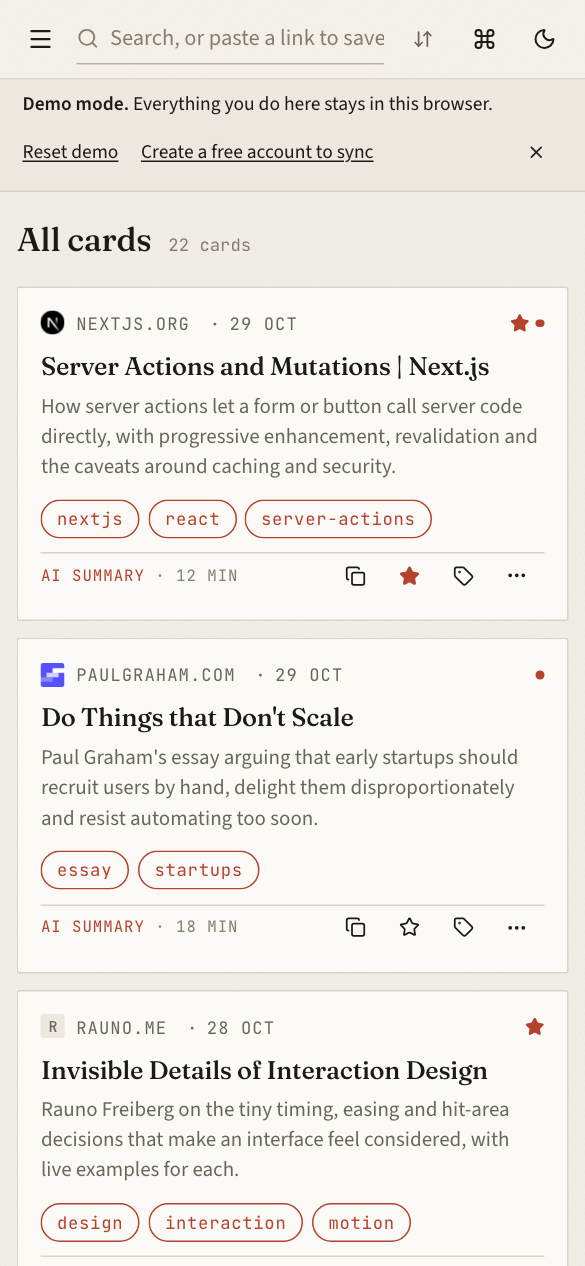
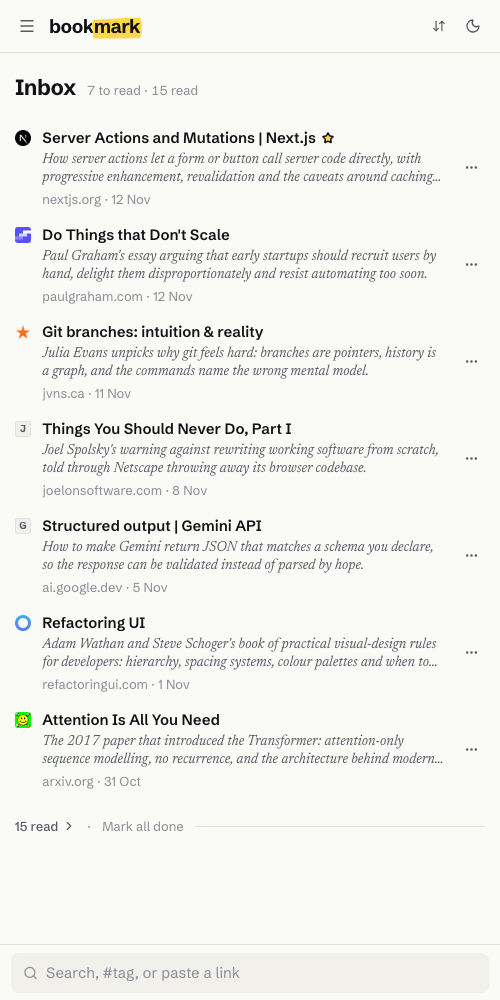
Rewrite the README around what the app does and refresh the screenshots

diff --git a/README.md b/README.md
@@ -1,130 +1,82 @@
 # Bookmark-AI
 
-Save a page. Get it back with one word.
+Save a link now. Find it later with the one word you remember.
 
-Paste a link and Bookmark-AI reads the page, writes a two-line summary, stamps a few tags and files the card. Months later you type the one word you remember and it is back on the desk.
-
-**Live demo:** https://bookmark-ai-beta.vercel.app/demo (no account needed; demo cards stay in your browser, only the URL you paste goes to the server to be read)
+**Live:** https://bookmark-ai-beta.vercel.app · **Try it without an account:** https://bookmark-ai-beta.vercel.app/demo
 
 [![ci](https://github.com/meCeltic/Bookmark-AI/actions/workflows/ci.yml/badge.svg)](https://github.com/meCeltic/Bookmark-AI/actions/workflows/ci.yml)
 
-![The dashboard, light](public/screenshots/dashboard-light.png)
-
-## Why I rebuilt it
-
-The first version of this repo was a weekend take-home from 2025. It had a Supabase schema the UI never called, a "summary" that was a raw page dump, and a bookmarks list that lived in `localStorage` behind a login that protected nothing. I kept the name and the idea and rewrote everything else, this time the way I would build a service at work: a schema with row-level security, a repository boundary so the UI does not care where data lives, an enrichment pipeline that treats a language model as an untrusted upstream, and a demo mode so the link on my résumé works for anyone in three seconds.
+![Landing page](public/screenshots/landing.png)
 
 ## What it does
 
-- **Reads the page for you.** Title, favicon, image, reading time, and a summary with 3–5 tags and a category written by Gemini. No key or quota? The page's own description is used and the card says `meta` instead of `ai`.
-- **Keeps a tidy drawer.** Collections, plus five built-in views: all, unsorted, favourites, reading list (unread), archive. Tags are filters with counts.
-- **Finds things again.** One input that filters as you type and flips into Save mode when it sees a link. `⌘K` palette. Search is substring-first with word-level typo tolerance, so `recat` finds React without matching every summary that contains those letters.
-- **Works from the keyboard.** `j`/`k` walk cards, `f` favourite, `e` archive, `⌫` delete, `x` select, `?` shows the sheet. Delete and bulk actions are undoable from the toast.
-- **Moves your data in and out.** Import the `bookmarks.html` any browser exports; folders become collections and duplicates are skipped. Export back to browser HTML or JSON.
-- **Tells you what is dead.** Link health check with bounded concurrency, badges on the cards, a filter for the dead ones.
-- **Refuses duplicates.** URLs are canonicalised (no `utm_*`, `www.`, fragment or trailing slash) and a unique index in Postgres is the last word.
-- **Demo mode.** `/demo` runs the whole app against a localStorage repository with a seeded drawer. Sign up later and bring the demo cards with you.
+Paste a link. The server reads the page, writes a two-line summary with a few tags, and files it in your Inbox. From then on, any word you remember brings it back: title, summary, tags and URL are all searched, with typo tolerance.
 
-| Dark | Palette | Mobile |
+- **An inbox, not a pile.** Unread links sit on top. Press `d` when you're done with one and it drops out of the way. Read links fold into a single line so the Inbox can actually reach zero.
+- **Search that forgives.** `recat` finds React. `#design` filters by tag, with autocomplete. Matches are highlighted in place.
+- **Keyboard first.** `j`/`k` to move, `o` to open, `space` for a preview pane, `f` to star, `?` for the full list. Every destructive action has an undo.
+- **Your data stays yours.** Import the `bookmarks.html` any browser exports (folders become collections, duplicates are skipped). Export back to HTML or JSON at any time.
+- **Save from anywhere.** A bookmarklet posts the current tab to `/save`.
+- **Dead links are flagged**, so a stale drawer tells you which pages have gone.
+
+| Inbox | Preview | Phone |
 | --- | --- | --- |
-| ![dark](public/screenshots/dashboard-dark.png) | ![palette](public/screenshots/command-palette.png) | ![mobile](public/screenshots/mobile.png) |
+| ![Inbox](public/screenshots/inbox.png) | ![Preview pane](public/screenshots/preview.png) | ![Mobile](public/screenshots/mobile.png) |
 
-## How it works
+## How it's built
 
-### How a card gets written
+Next.js 16 (App Router, server actions) · React 19 · TypeScript · Tailwind 4 · Supabase Auth and Postgres · Gemini for summaries.
 
-When you paste a link, the server reads the page once and writes the card from what it finds. The fetch goes through a guard that only allows http(s), resolves the hostname and refuses private, loopback and link-local addresses, follows at most three redirects and re-checks each one, stops reading after 1 MiB and gives the whole exchange five seconds. From the HTML it takes the title (Open Graph first, then Twitter, then `<title>`), the favicon and preview image, the article or main text with entities decoded, and an estimated reading time.
+A few decisions I'd defend in a review:
 
-About six kilobytes of that text goes to Gemini with a fixed JSON schema in the request. The reply is parsed again by a Zod schema that caps lengths, keeps three to five tags in a safe character set and restricts the category to a fixed list. If there is no API key, the quota is spent or the reply does not fit the schema, the card falls back to the page's own description and records that it did, so the UI never presents a fallback as an AI summary.
+- **The database enforces the rules.** Row-level security on every table. A unique index on the canonical URL per user means a duplicate is refused by Postgres, not by a check that someone could forget. A generated, weighted `tsvector` plus a trigram index back the search function.
+- **One repository interface, three implementations.** The UI talks to a `BookmarkRepository`. Demo mode gets a localStorage one, signed-in users get Postgres behind server actions. A single contract test suite runs against both, so the demo is the real app, not a mock.
+- **User-supplied URLs are treated as hostile.** Fetches go through a guard that resolves DNS and refuses private, loopback, link-local and metadata ranges (IPv4 and IPv6), re-validates every redirect, caps the body at 1 MiB and the whole exchange at five seconds. The link checker uses the same guard.
+- **The model is an upstream, not an oracle.** Gemini is called with a response schema, the reply is validated again with Zod, and anything off-schema or rate-limited falls back to the page's own description, labelled as such. Models are tried in a chain with retries.
+- **Validated at every boundary.** Server action input, route bodies, model output, import files and localStorage all pass through the same Zod schemas. Actions return a typed `Result` instead of throwing across the client line.
+- **Motion without a library.** Saves, deletes, the preview pane and layout changes use the View Transitions API with a reduced-motion tier. Nothing moves that you're reading.
 
-Before the card is filed, the URL is canonicalised: `utm_*` parameters, `www.`, the fragment and a trailing slash are removed. A unique index on the canonical URL per user means a duplicate is refused by Postgres rather than by a check in JavaScript, and a generated full-text search vector over title, summary, tags and URL is kept up to date by the database.
-
-### How the app is put together
-
-
-```
-Next.js 16 (App Router)            Supabase
-┌──────────────────────────┐       ┌────────────────────────────┐
-│ /demo  ──► LocalRepository (browser, localStorage)             │
-│ /dashboard ─► RemoteRepository ─► server actions ─► SupabaseRepository ─► Postgres (RLS)
-│                                                                │
-│ POST /api/enrich ─► ssrf-guard ─► extract ─► Gemini ─► Zod ─► Enrichment
-│ POST /api/health ─► ssrf-guard (HEAD, 6 at a time)             │
-└──────────────────────────┘       └────────────────────────────┘
-```
-
-**One repository interface, three implementations.** The dashboard only knows `BookmarkRepository` (`lib/repo/types.ts`). Demo mode gets `LocalRepository`; signed-in users get `RemoteRepository`, which forwards to server actions that run `SupabaseRepository` with the caller's session. One contract test suite (`lib/repo/contract.test.ts`) pins the behaviour: dedupe by canonical URL, patch semantics, collection deletion unsorting its cards, tag merge.
-
-**Postgres does the hard parts** (`supabase/migrations/0001_init.sql`). Row-level security on every table with `using` and `with check`. A unique index on `(user_id, url_normalized)` so duplicates are a database guarantee, not a JavaScript hope. A generated `tsvector` column with weighted fields (title A, summary B, tags C, url D), a GIN index on it, and a trigram index on title; `search_bookmarks(q)` ranks with `ts_rank_cd` and falls back to `similarity` for typos. `rename_tag` merges a tag across every row in one statement. Tags are a `text[]` on the row rather than a join table: every read needs them, writes are per-row, and a GIN index answers "has tag", so a join table would buy nothing here.
-
-**Fetching user-supplied URLs is a security feature** (`lib/url/ssrf-guard.ts`). http(s) only, hostnames like `localhost`, `*.internal` and `*.local` refused, DNS resolved and every address checked against loopback, RFC 1918, link-local (cloud metadata), CGNAT, multicast and the IPv6 equivalents including mapped IPv4. Redirects are followed manually, at most three, re-validating each hop. Bodies are streamed and cut at 1 MiB; the whole exchange shares a 5 s budget. The same guard fronts the health check.
-
-**The model is an upstream, not an oracle** (`lib/enrich/`). Gemini is called with `responseMimeType: application/json` and a `responseSchema`; the reply is then parsed by a Zod schema that caps lengths, restricts tags to `[a-z0-9 .+#-]` and the category to a fixed enum. Anything off-schema, any quota error and any missing key all land on the same metadata fallback, and the card's status (`done` / `fallback` / `failed`) tells the UI what happened. Route handlers return typed errors with proper status codes and `Retry-After`; a token-bucket limiter is keyed by user id, or by IP for demo visitors.
-
-**Validated at every boundary.** Server action arguments, route bodies, model output, import files and `localStorage` reads all go through the schemas in `lib/domain/bookmark.ts`. Actions return a `Result<T>` instead of throwing across the client line.
-
-### Decisions and trade-offs
-
-| Decision | Why | What it costs |
-| --- | --- | --- |
-| Full-text search in Postgres, not a vector database | A personal drawer is a few hundred rows; `tsvector` + trigram answers "I remember one word" instantly with no second service. | No semantic search ("that article about cache invalidation" when the word cache is not on the card). |
-| Client-side search over the loaded list in the UI | The list is fully loaded anyway; filtering as you type must be instant. The Postgres RPC exists for a future paginated drawer. | Search logic lives in two places until the list is paginated. |
-| Tags as `text[]`, not a join table | Simpler reads and writes, GIN index covers filtering, `rename_tag` is one UPDATE. | Tag metadata (colour, description) has nowhere to live. |
-| In-memory rate limiter | Zero infrastructure for a portfolio deployment. | Per-instance; the upgrade path is Upstash with the same interface. |
-| Demo on localStorage, not an anonymous Supabase user | No sign-up wall, works with every env var missing, no abandoned rows to clean. | Demo data does not sync; "bring them in" on sign-up covers the happy path. |
-| Gemini structured output rather than prompt-and-pray | A schema in the request and a schema on the reply give two layers of guarantee. | Tied to one provider; swapping means re-implementing `summarize` behind the same type. |
-
-## Running it
+## Running it locally
 
 ```bash
 git clone https://github.com/meCeltic/Bookmark-AI
 cd Bookmark-AI
 npm install
-cp .env.example .env.local   # all optional, see below
 npm run dev
 ```
 
-Open http://localhost:3000. With no env vars at all you get demo mode only, which is a complete app.
+That gives you demo mode with no configuration. For accounts and AI summaries, copy `.env.example` to `.env.local`:
 
 | Variable | Needed for |
 | --- | --- |
-| `NEXT_PUBLIC_SUPABASE_URL`, `NEXT_PUBLIC_SUPABASE_ANON_KEY` | Accounts and cloud sync. Run `supabase/migrations/0001_init.sql` in the SQL editor first. |
-| `GEMINI_API_KEY` (`GEMINI_MODEL` optional) | AI summaries and tags. The free tier at aistudio.google.com is enough. Models are tried in a chain (lite first, then larger) and a 404, 429, 503 or timeout moves to the next; without a key, cards use the page description. |
-| `NEXT_PUBLIC_SITE_URL` | Absolute links in auth emails. |
+| `NEXT_PUBLIC_SUPABASE_URL`, `NEXT_PUBLIC_SUPABASE_ANON_KEY` | Sign-in and cloud sync. Run `supabase/migrations/0001_init.sql` in the SQL editor first. |
+| `GEMINI_API_KEY` | Summaries and tags. The free tier at aistudio.google.com is enough. |
+| `NEXT_PUBLIC_SITE_URL` | Absolute links in auth emails and the bookmarklet. |
+
+## Quality
 
 ```bash
-npm test          # vitest, ~270 tests, about a second
-npm run verify    # lint + typecheck + test + build, what CI runs
-
-# Apply the migration to a disposable Postgres and check RLS, the unique index,
-# search and the trigger as a non-superuser. CI runs this against a service container.
-docker run -d --name pg -e POSTGRES_PASSWORD=pg -p 5432:5432 postgres:16-alpine
-DATABASE_URL=postgres://postgres:pg@localhost:5432/postgres scripts/db-smoke.sh
+npm test          # 324 unit and component tests, about two seconds
+npm run verify    # lint, typecheck, tests, production build (what CI runs)
+scripts/db-smoke.sh   # applies the migration to a throwaway Postgres and checks RLS, the unique index and search as a non-superuser
 ```
+
+CI runs the full verify step and the database smoke test against a Postgres 16 service on every push.
 
 ## Layout
 
 ```
-app/            routes: landing, /demo, /dashboard, /settings, /login, /signup, /api/enrich, /api/health
-components/     dashboard (provider, shell, index card, palette, dialogs), landing, auth
-lib/domain      Zod schemas and the Result type
-lib/repo        BookmarkRepository + local / supabase / remote implementations + contract tests
-lib/url         normalisation, canonical keys, SSRF guard
-lib/enrich      HTML extraction, Gemini call, pipeline
-lib/search      filters, sorting, ranking
-lib/import      Netscape bookmarks.html parser
-lib/export      JSON and HTML writers
-supabase/       schema migration and the SQL smoke test
-scripts/        db-smoke.sh
+app/           routes, API handlers, /save bookmarklet target
+components/    dashboard, landing, auth, settings
+lib/domain     Zod schemas and the Result type
+lib/repo       BookmarkRepository: local, supabase, remote, plus contract tests
+lib/url        canonicalisation and the SSRF guard
+lib/enrich     page extraction, Gemini call, fallback pipeline
+lib/search     ranking with typo tolerance
+lib/import     browser bookmarks.html parser
+supabase/      schema migration and SQL smoke test
 ```
-
-## Roadmap
-
-- Paginate the drawer past a few thousand cards and switch search to the Postgres RPC.
-- Reader view from the extracted text, so a card can be read without leaving.
-- Magic-link sign-in.
-- Upstash-backed rate limiting when there is more than one instance.
 
 ## License
 
-MIT
+MIT · built by [Ankit Singh](https://github.com/meCeltic)
